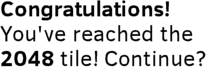
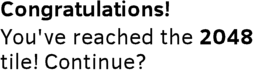
Adapted for 320x240 screens

diff --git a/src/game2048/scene/Scene.java b/src/game2048/scene/Scene.java
@@ -49,6 +49,7 @@ public final class Scene extends GameCanvas implements Runnable
     private static final int BACKGROUND = 0xFAF8EF;
     private static final int NUMBER_MARGIN = 3;
     private static final int ROUNDNESS = 4;
+    private static final int SPACING = 5;
     private final Vector listeners = new Vector(2);
     private final Vector sceneElements;
     private final Number[][] numbers;
@@ -56,7 +57,6 @@ public final class Scene extends GameCanvas implements Runnable
     private final Score score;
     private final Score best;
     private Dialog dialog;
-    private final int spacing;
     private volatile boolean paused;
     private volatile boolean stopped;
     private volatile boolean animating;
@@ -76,22 +76,22 @@ public final class Scene extends GameCanvas implements Runnable
         }
 
         grid = new Grid(0, 0, rows, cols, Number.WIDTH, Number.HEIGHT, NUMBER_MARGIN, ROUNDNESS);
-        grid.setX((getWidth() - grid.getWidth()) / 2);
-        //spacing = grid.getX();
-        spacing = 5;
+        grid.setX(getWidth() - grid.getWidth() - SPACING);
+        grid.setY(SPACING);
 
-        best = new Score(grid.getX() + grid.getWidth(), spacing, ROUNDNESS, true);
-        score = new Score(0, spacing, ROUNDNESS, false);
-        updateScorePosition();
+        final int leftPanelWidth = getWidth() - 3 * SPACING - grid.getWidth();
 
-        final Logo logo = new Logo(grid.getX(), spacing);
-        grid.setY(score.getY() + score.getHeight() + spacing);
+        final Logo logo = new Logo(0, SPACING);
+        logo.setX(SPACING + (leftPanelWidth - logo.getWidth()) / 2);
 
+        score = new Score(SPACING, logo.getY() + logo.getHeight() + SPACING, leftPanelWidth, ROUNDNESS, false);
+        best = new Score(SPACING, score.getY() + score.getHeight() + SPACING, leftPanelWidth, ROUNDNESS, true);
+        
         addToScene(logo);
         addToScene(best);
         addToScene(score);
         addToScene(grid);
-        addToScene(new ActionsPane(this, spacing));
+        addToScene(new ActionsPane(this, SPACING));
     }
 
     private void addToScene(final Object object)
@@ -413,12 +413,6 @@ public final class Scene extends GameCanvas implements Runnable
     public final void updateBest(final int best)
     {
         this.best.setScore(best);
-        updateScorePosition();
-    }
-
-    private void updateScorePosition()
-    {
-        score.setX(grid.getX() + grid.getWidth() - spacing - best.getWidth());
     }
 
     private void showDialog(final int type, final Runnable runOnDone)

diff --git a/src/game2048/scene/Score.java b/src/game2048/scene/Score.java
@@ -13,8 +13,8 @@ public final class Score implements Drawable
 {
 
     private static final int BACKGROUND = 0xBBADA0;
-    private static final int NUMBER_SPACING = 0;
-    private static final int PADDING = 4;
+    private static final int NUMBER_SPACING = 1;
+    private static final int PADDING = 5;
 
     private int x;
     private int y;
@@ -29,12 +29,12 @@ public final class Score implements Drawable
     private int textX;
     private int textY;
 
-    public Score(final int x, final int y, final int roundness, final boolean best) throws IOException
-    {
+    public Score(final int x, final int y, final int width, final int roundness, final boolean best) throws IOException {
         this.x = x;
         this.y = y;
         this.roundness = roundness;
-
+        this.width = width;
+        
         titleImage = Image.createImage(getClass().getResourceAsStream("images/score/" + (best ? "best" : "score") + ".png"));
         setScore(0);
     }
@@ -53,11 +53,10 @@ public final class Score implements Drawable
 
     private void updatePositions()
     {
-        width = 2 * PADDING + Math.max(titleImage.getWidth(), textDimensions.width);
         height = 3 * PADDING + titleImage.getHeight() + textDimensions.height; //textDimensions.height;
-        titleX = x - width + (width - titleImage.getWidth()) / 2;
+        titleX = x + (width - titleImage.getWidth()) / 2;
         titleY = y + PADDING;
-        textX = x - width + (width - textDimensions.width) / 2;
+        textX = x + (width - textDimensions.width) / 2;
         textY = titleY + titleImage.getHeight() + PADDING;
     }
 
@@ -67,7 +66,7 @@ public final class Score implements Drawable
     public final void draw(final Graphics graphics)
     {
         graphics.setColor(BACKGROUND);
-        graphics.fillRoundRect(x - width, y, width, height, roundness, roundness);
+        graphics.fillRoundRect(x, y, width, height, roundness, roundness);
 
         graphics.drawImage(titleImage, titleX, titleY, Graphics.LEFT | Graphics.TOP);
         ScoreDrawingTool.drawScore(score, textX, textY, NUMBER_SPACING, graphics);

diff --git a/src/game2048/scene/Number.java b/src/game2048/scene/Number.java
@@ -14,8 +14,8 @@ import javax.microedition.lcdui.Image;
 public final class Number implements Animable, Drawable
 {
     
-    public static final int WIDTH = 50;
-    public static final int HEIGHT = 50;
+    public static final int WIDTH = 41;
+    public static final int HEIGHT = 41;
     private static final int HALF_WIDTH = WIDTH / 2;
     private static final int HALF_HEIGHT = HEIGHT / 2;
     private static final float APPEARING_DEFAULT_HORIZONTAL_MARGIN = HALF_WIDTH;
